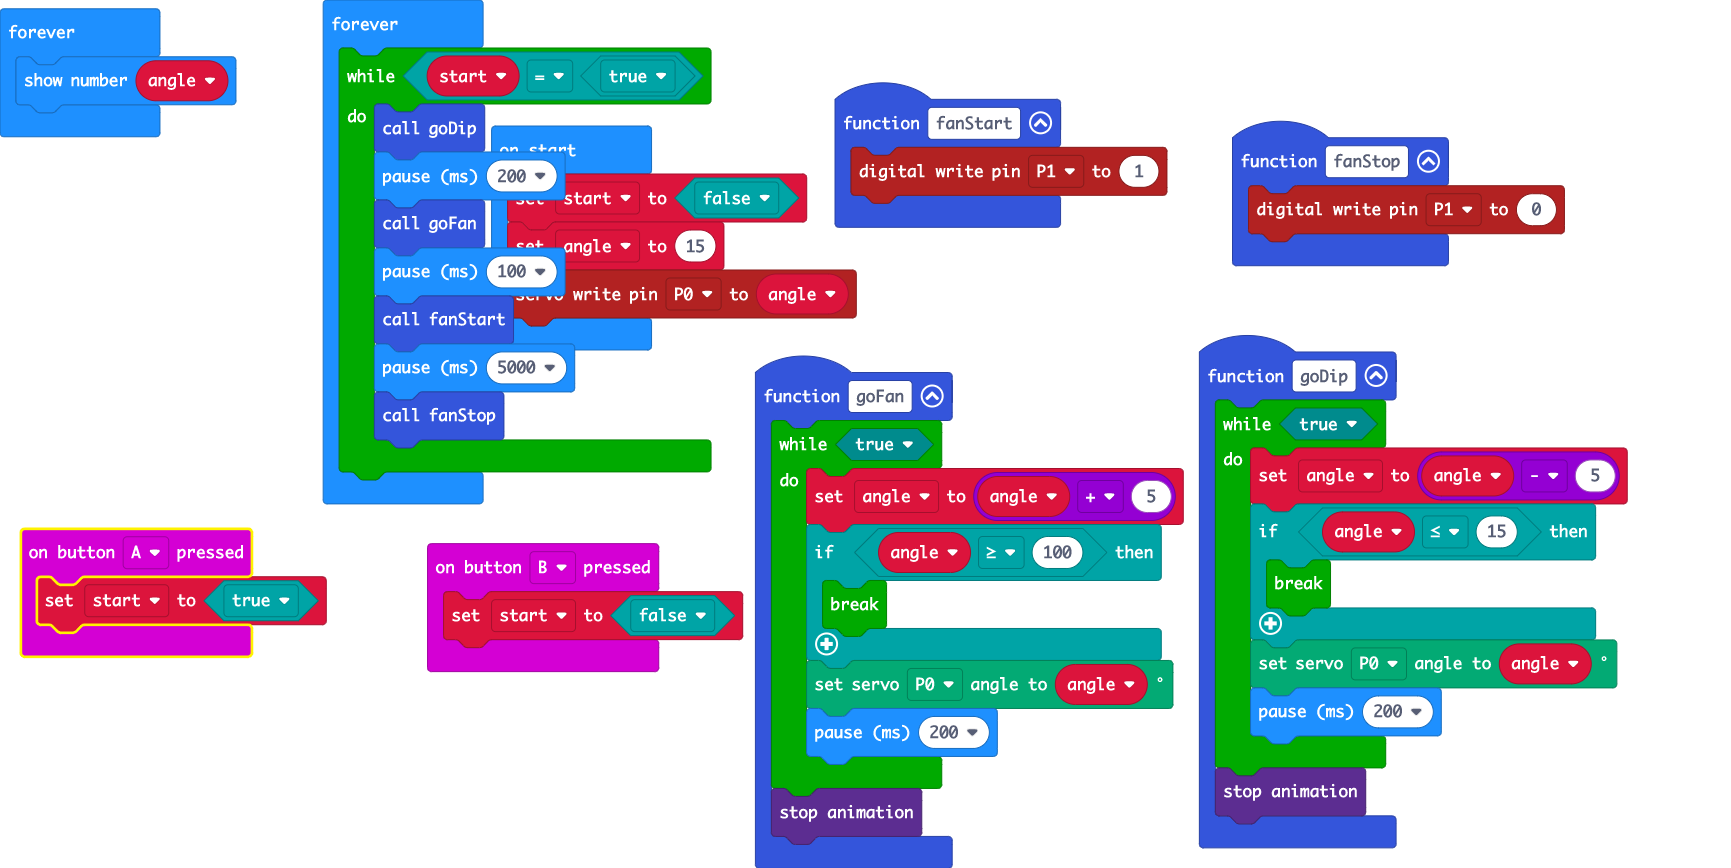
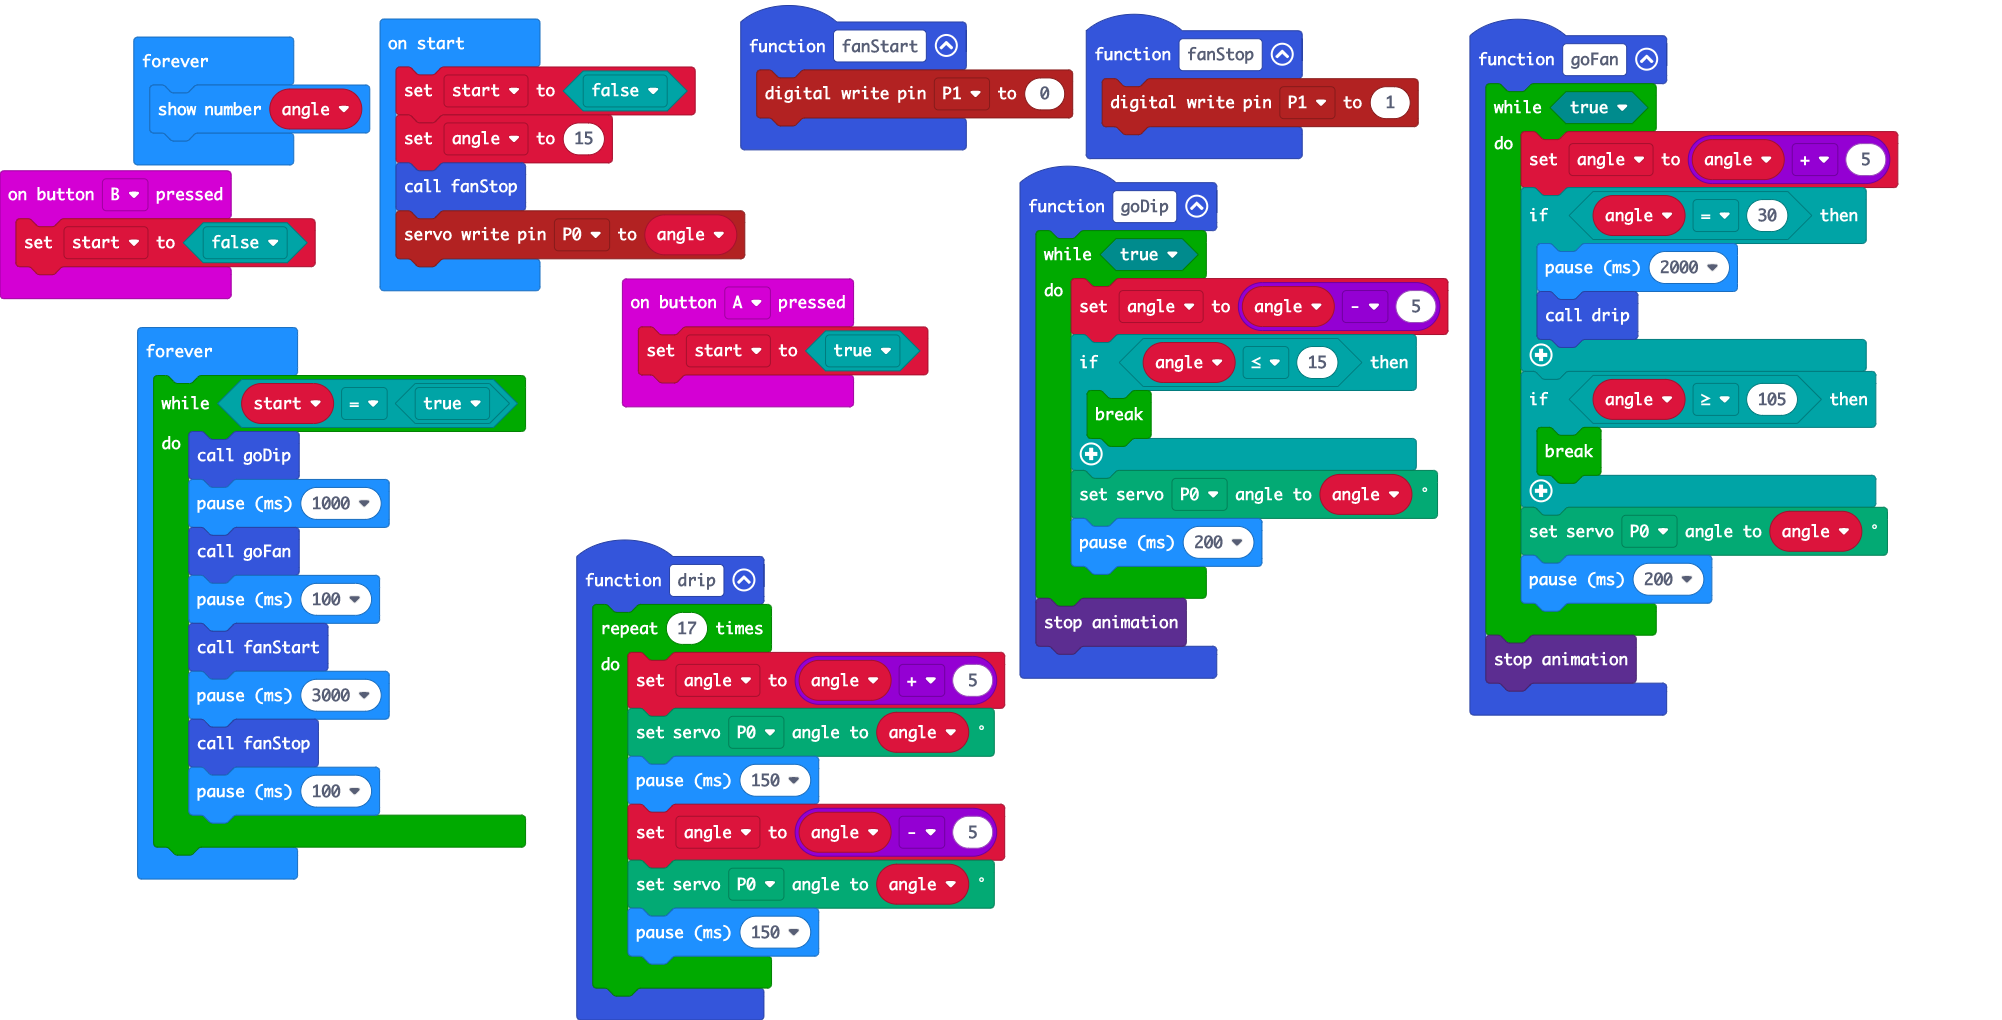
Update main.ts, main.blocks

diff --git a/main.ts b/main.ts
@@ -1,7 +1,11 @@
 function goFan () {
     while (true) {
         angle = angle + 5
-        if (angle >= 100) {
+        if (angle == 30) {
+            basic.pause(2000)
+            drip()
+        }
+        if (angle >= 105) {
             break;
         }
         servos.P0.setAngle(angle)
@@ -13,7 +17,7 @@ input.onButtonPressed(Button.A, function () {
     start = true
 })
 function fanStop () {
-    pins.digitalWritePin(DigitalPin.P1, 0)
+    pins.digitalWritePin(DigitalPin.P1, 1)
 }
 input.onButtonPressed(Button.B, function () {
     start = false
@@ -29,13 +33,24 @@ function goDip () {
     }
     led.stopAnimation()
 }
+function drip () {
+    for (let index = 0; index < 17; index++) {
+        angle = angle + 5
+        servos.P0.setAngle(angle)
+        basic.pause(150)
+        angle = angle - 5
+        servos.P0.setAngle(angle)
+        basic.pause(150)
+    }
+}
 function fanStart () {
-    pins.digitalWritePin(DigitalPin.P1, 1)
+    pins.digitalWritePin(DigitalPin.P1, 0)
 }
 let angle = 0
 let start = false
 start = false
 angle = 15
+fanStop()
 pins.servoWritePin(AnalogPin.P0, angle)
 basic.forever(function () {
     basic.showNumber(angle)
@@ -43,11 +58,12 @@ basic.forever(function () {
 basic.forever(function () {
     while (start == true) {
         goDip()
-        basic.pause(200)
+        basic.pause(1000)
         goFan()
         basic.pause(100)
         fanStart()
-        basic.pause(5000)
+        basic.pause(3000)
         fanStop()
+        basic.pause(100)
     }
 })
